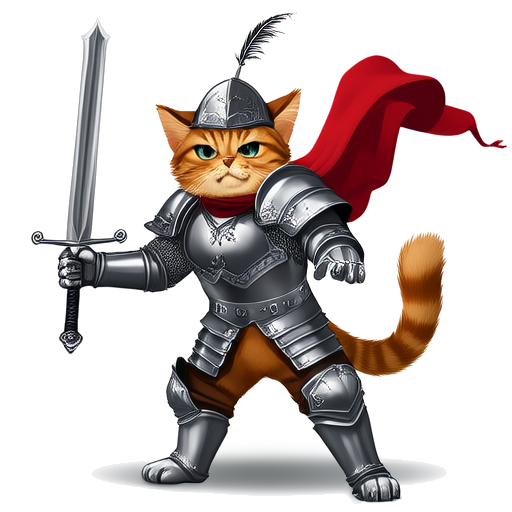
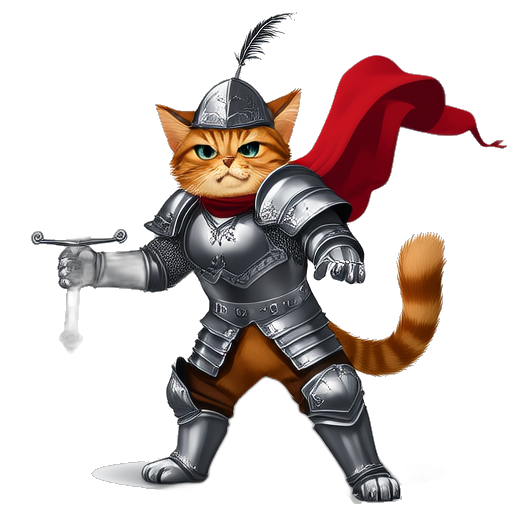
v0.7.11: pet active attack w/ color trail + skin-aware weapon swing

diff --git a/src/index.html b/src/index.html
@@ -1197,6 +1197,42 @@ function update(dt) {
   // cat flash
   if (catFlash > 0) catFlash -= dt;
 
+  // 宠物独立攻击 (每 ~2.5s 对最近怪造成其 atkBonus 伤害, 带彩色粒子轨迹)
+  if (!window.__petAtkTimers) window.__petAtkTimers = [];
+  for (let pi = 0; pi < state.pets.length; pi++) {
+    window.__petAtkTimers[pi] = (window.__petAtkTimers[pi] || Math.random() * 2) + dt;
+    if (window.__petAtkTimers[pi] >= 2.5) {
+      window.__petAtkTimers[pi] = 0;
+      const pt = PET_TYPES.find(x => x.id === state.pets[pi].typeId);
+      if (pt && monsters.length > 0) {
+        // 找最近怪 (x 最小)
+        let tgt = null;
+        for (const m of monsters) {
+          if (m.hp <= 0) continue;
+          if (!tgt || m.x < tgt.x) tgt = m;
+        }
+        if (tgt) {
+          tgt.hp -= pt.atkBonus;
+          tgt.flash = 0.1;
+          floatTexts.push({ x: tgt.x + 10, y: tgt.y - 15, text: '-' + pt.atkBonus, color: pt.color, life: 0.6 });
+          // 粒子轨迹 (从宠物到怪物)
+          const petStartX = 80 - 26 - pi * 24 + 11;
+          const petStartY = 136 - 60 + 2;
+          for (let k = 0; k < 6; k++) {
+            const t = k / 6;
+            particles.push({
+              x: petStartX + (tgt.x + tgt.size/2 - petStartX) * t,
+              y: petStartY + (tgt.y + tgt.size/2 - petStartY) * t,
+              vx: 0, vy: 0,
+              color: pt.color, life: 0.3, size: 2, glow: true,
+              gravity: 0, drag: 1,
+            });
+          }
+          if (tgt.hp <= 0) killMonster(tgt);
+        }
+      }
+    }
+  }
   // monsters
   for (const m of monsters) {
     if (m.hp <= 0) continue;
@@ -1441,26 +1477,32 @@ function render(time) {
   ctx.fillRect(catX, catY - 7, CAT_SIZE * hpRatio, 4);
 
   // weapon swing (rotating PNG during attack)
+  // 皮肤非"普通"时自带武器, 不叠加挥砍武器贴图, 只留弧线
+  const _sskin = OUTFITS[state.outfit];
+  const _skinHasWeapon = _sskin && _sskin.img !== 'cat';
   if (attackArc > 0) {
-    const wep = state.equipment.weapon; const wepKey = wep ? wep.icon : 'swordWep'; const wepImg = IMG[wepKey];
-    if (wep && wepImg && wepImg.complete) {
-      const pivotX = catX + CAT_SIZE - 4;
-      const pivotY = catY + CAT_SIZE * 0.45;
-      const swingProgress = 1 - attackArc; // 0→1 across swing
-      const angle = -Math.PI * 0.3 + swingProgress * Math.PI * 0.8;
-      ctx.save();
-      ctx.translate(pivotX, pivotY);
-      ctx.rotate(angle);
-      const wSize = 22;
-      ctx.drawImage(wepImg, 0, -wSize/2, wSize, wSize);
-      ctx.restore();
-      // Slash trail (white arc)
-      ctx.strokeStyle = `rgba(255,255,255,${attackArc * 0.6})`;
-      ctx.lineWidth = 2;
-      ctx.beginPath();
-      ctx.arc(pivotX, pivotY, 18, -Math.PI * 0.3, angle);
-      ctx.stroke();
+    const pivotX = catX + CAT_SIZE - 4;
+    const pivotY = catY + CAT_SIZE * 0.45;
+    const swingProgress = 1 - attackArc;
+    const angle = -Math.PI * 0.3 + swingProgress * Math.PI * 0.8;
+    // 没自带武器的皮肤才画旋转武器贴图
+    if (!_skinHasWeapon) {
+      const wep = state.equipment.weapon; const wepKey = wep ? wep.icon : 'swordWep'; const wepImg = IMG[wepKey];
+      if (wep && wepImg && wepImg.complete) {
+        ctx.save();
+        ctx.translate(pivotX, pivotY);
+        ctx.rotate(angle);
+        const wSize = 22;
+        ctx.drawImage(wepImg, 0, -wSize/2, wSize, wSize);
+        ctx.restore();
+      }
     }
+    // Slash 弧永远画
+    ctx.strokeStyle = `rgba(255,255,255,${Math.min(1, attackArc) * 0.8})`;
+    ctx.lineWidth = 2;
+    ctx.beginPath();
+    ctx.arc(pivotX, pivotY, 22, -Math.PI * 0.3, angle);
+    ctx.stroke();
   }
 
   // particles (size + glow)

diff --git a/ITER_LOG.md b/ITER_LOG.md
@@ -344,3 +344,10 @@
 - 雪原章 weather=snow, 切到熔岩仍下雪 (weatherTimer 30s 周期没到)
 - 每帧强制章节 weather + 切章时清 weatherDrops
 - 用 state.__lastChapterName 检测章节切换边界
+
+## v0.7.11 — 2026-04-20 (pet 可视化 + 武器冲突)
+- 皮肤自带武器 (骑士/法师/刺客) 不再叠加 attackArc 旋转武器贴图, 避免双武器
+- 弧线白色挥砍特效保留对所有皮肤生效
+- 宠物独立攻击: 每 2.5s 对最近怪物造成 atkBonus 伤害
+- 宠物 -> 怪物 画彩色粒子射线 (pet.color), 伤害 floatText 浮字
+- cat_knight/mage/rogue rembg 再扫一轮去边缘残留
